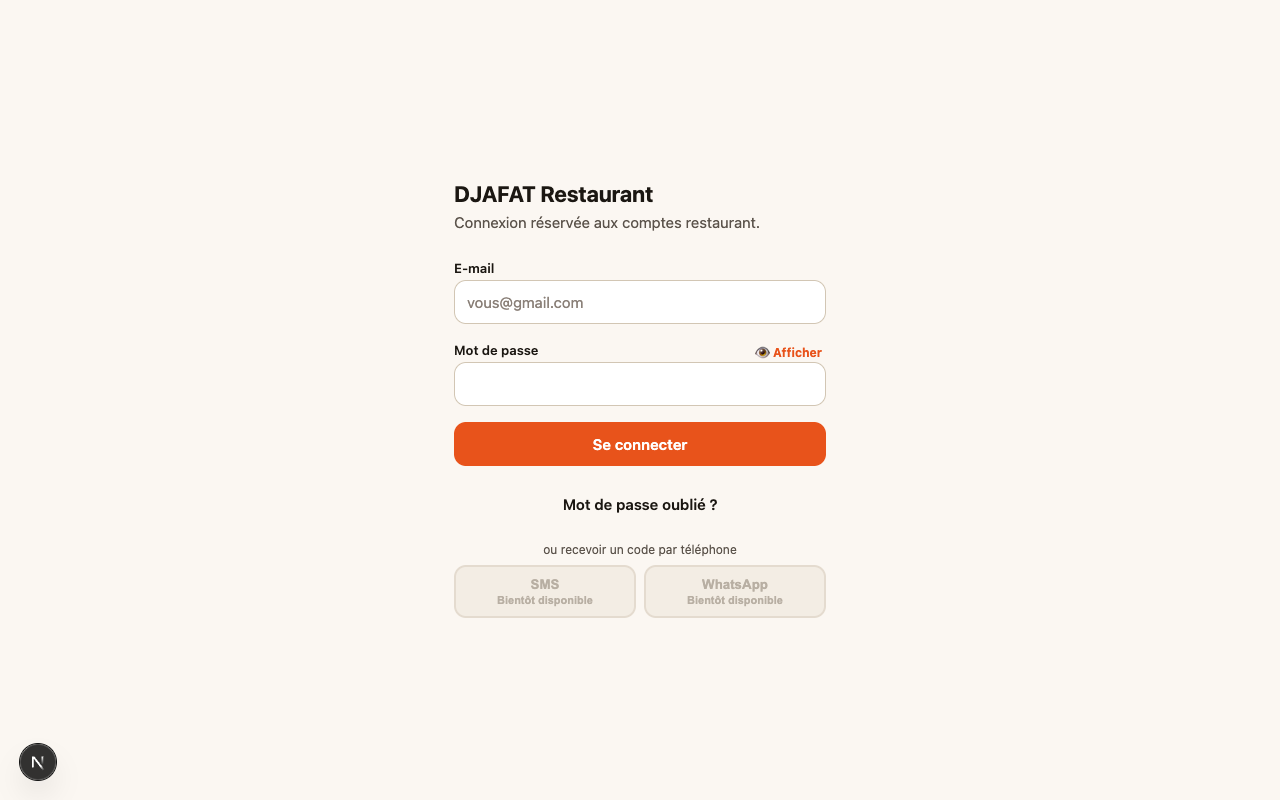
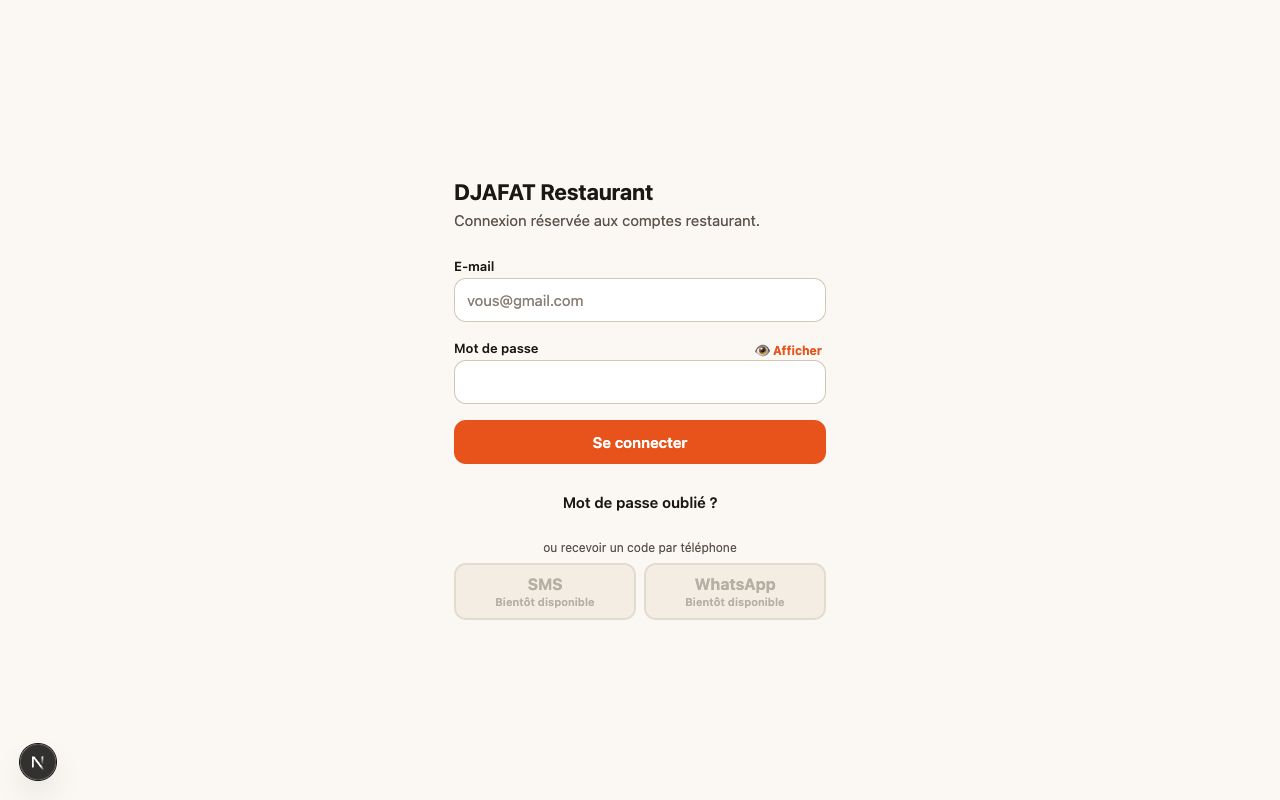
docs(repo): console screenshots retaken after the review 2 font fix (FEAT-021)

diff --git a/docs/features/FEAT-021-equipe-connexion-email/progress.md b/docs/features/FEAT-021-equipe-connexion-email/progress.md
@@ -61,7 +61,9 @@ Captures prises par un script Chrome sans tête (protocole DevTools, aucune dép
 puis chaque image ouverte et regardée. _Reprises après `81d3289` (corrections de la revue 1 : « 👁 Afficher »,
 focus) : les 10 captures dont l'écran a changé, refaites avec les mêmes scripts — l'application
 livreur reconstruite depuis le worktree et servie sur le port 8098 — puis rouvertes une à une ; les
-5 autres (écrans connectés, écran téléphone) sont identiques à l'octet._
+5 autres (écrans connectés, écran téléphone) sont identiques à l'octet._ _Après la revue 2 (`.channel` dans la police de la page) : les 6 captures
+qui montrent les boutons SMS et WhatsApp (SC06, 1280 et 390, et « SMS proposé ») reprises et
+rouvertes ; les autres sont inchangées._
 
 - Consoles admin et restaurant : le code de cette branche, servi depuis un worktree sur des ports
   libres (API 3011, admin 3012, restaurant 3013). E-mail toujours simulé (`EMAIL_PROVIDER=mock`,
